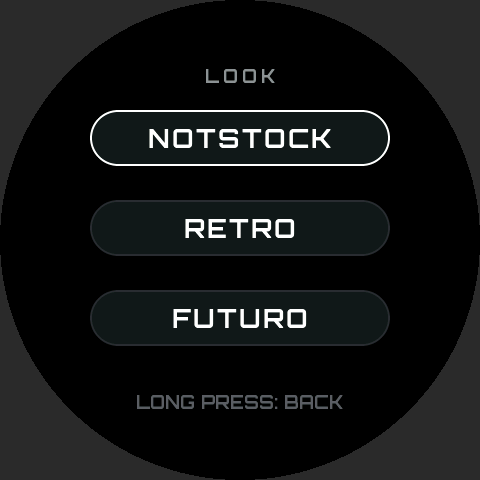
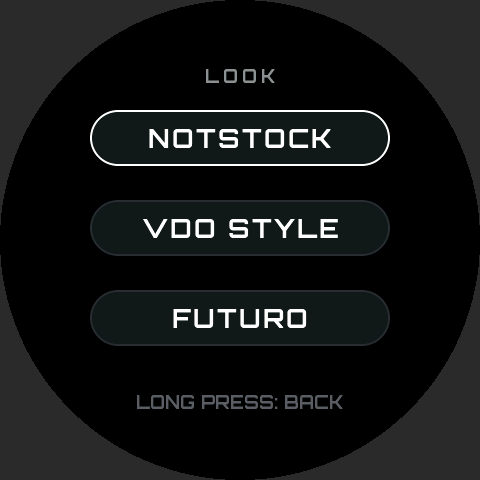
round gauge: RETRO look shown as VDO STYLE
Claude-Session: https://claude.ai/code/session_018SKN4tJhAPpVCWtvRZgZpD

Changed region(s): [[0.3125, 0.4375, 0.7188, 0.5], [0.2812, 0.4375, 0.3125, 0.4688]]

diff --git a/dash/notstock-round/main/ui_round_set.c b/dash/notstock-round/main/ui_round_set.c
@@ -113,7 +113,7 @@ static void night_step(lv_event_t *e)
 
 static const char *const LOOK_NAME[RND_LOOK_COUNT] = {
     [RND_LOOK_NOTSTOCK] = "NOTSTOCK",
-    [RND_LOOK_RETRO]    = "RETRO",
+    [RND_LOOK_RETRO]    = "VDO STYLE",
     [RND_LOOK_FUTURO]   = "FUTURO",
 };
 

diff --git a/dash/notstock-round/README.md b/dash/notstock-round/README.md
@@ -97,7 +97,8 @@ same in every look.
 ![retro](preview/retro-boost.png) ![futuro](preview/futuro-boost.png)
 
 - **NOTSTOCK**: the faces above, glowing value arc.
-- **RETRO** (`ui_look_retro.c`): a mechanical instrument of the VDO kind.
+- **VDO STYLE** (`ui_look_retro.c`, RETRO in the code): a mechanical
+  instrument of the VDO kind.
   Chrome bezel, black dial, white print, a glass sheen, all pre-rendered
   per page (`draw_face_retro` in `gen_faces.py`). Live: the red band from
   the warn limit, a red needle with a shadow over a black hub, a thin
